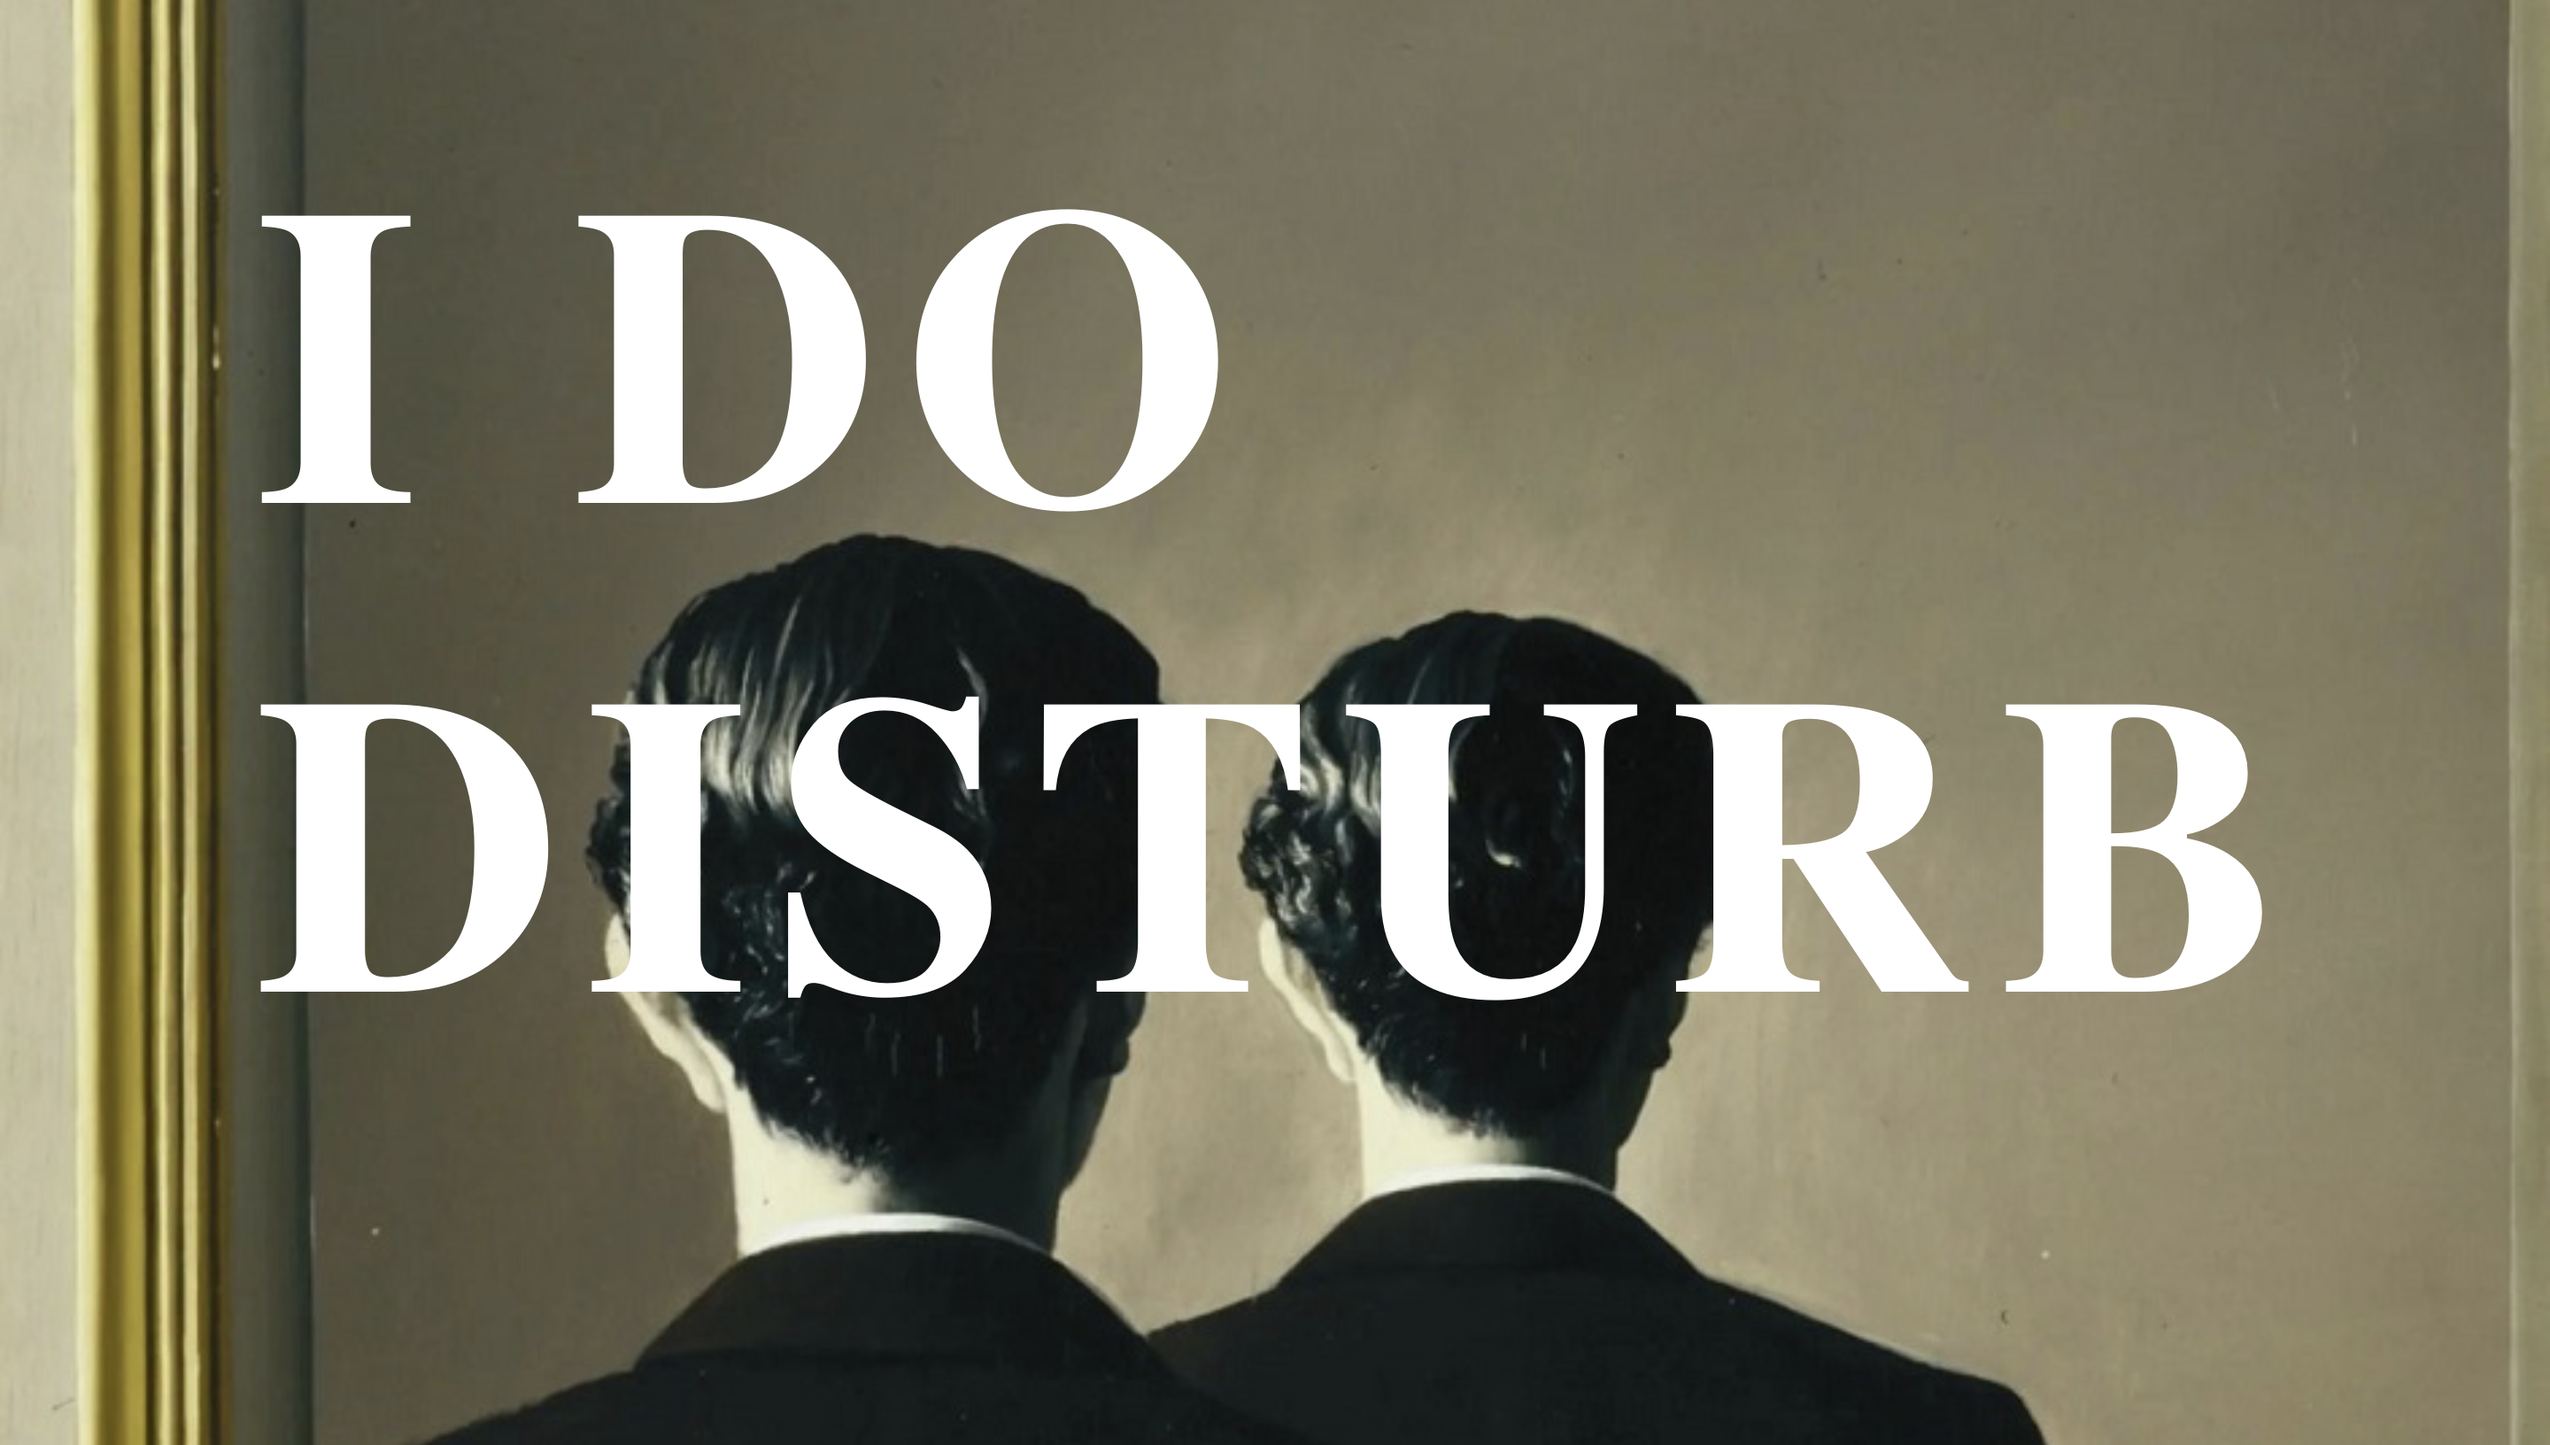
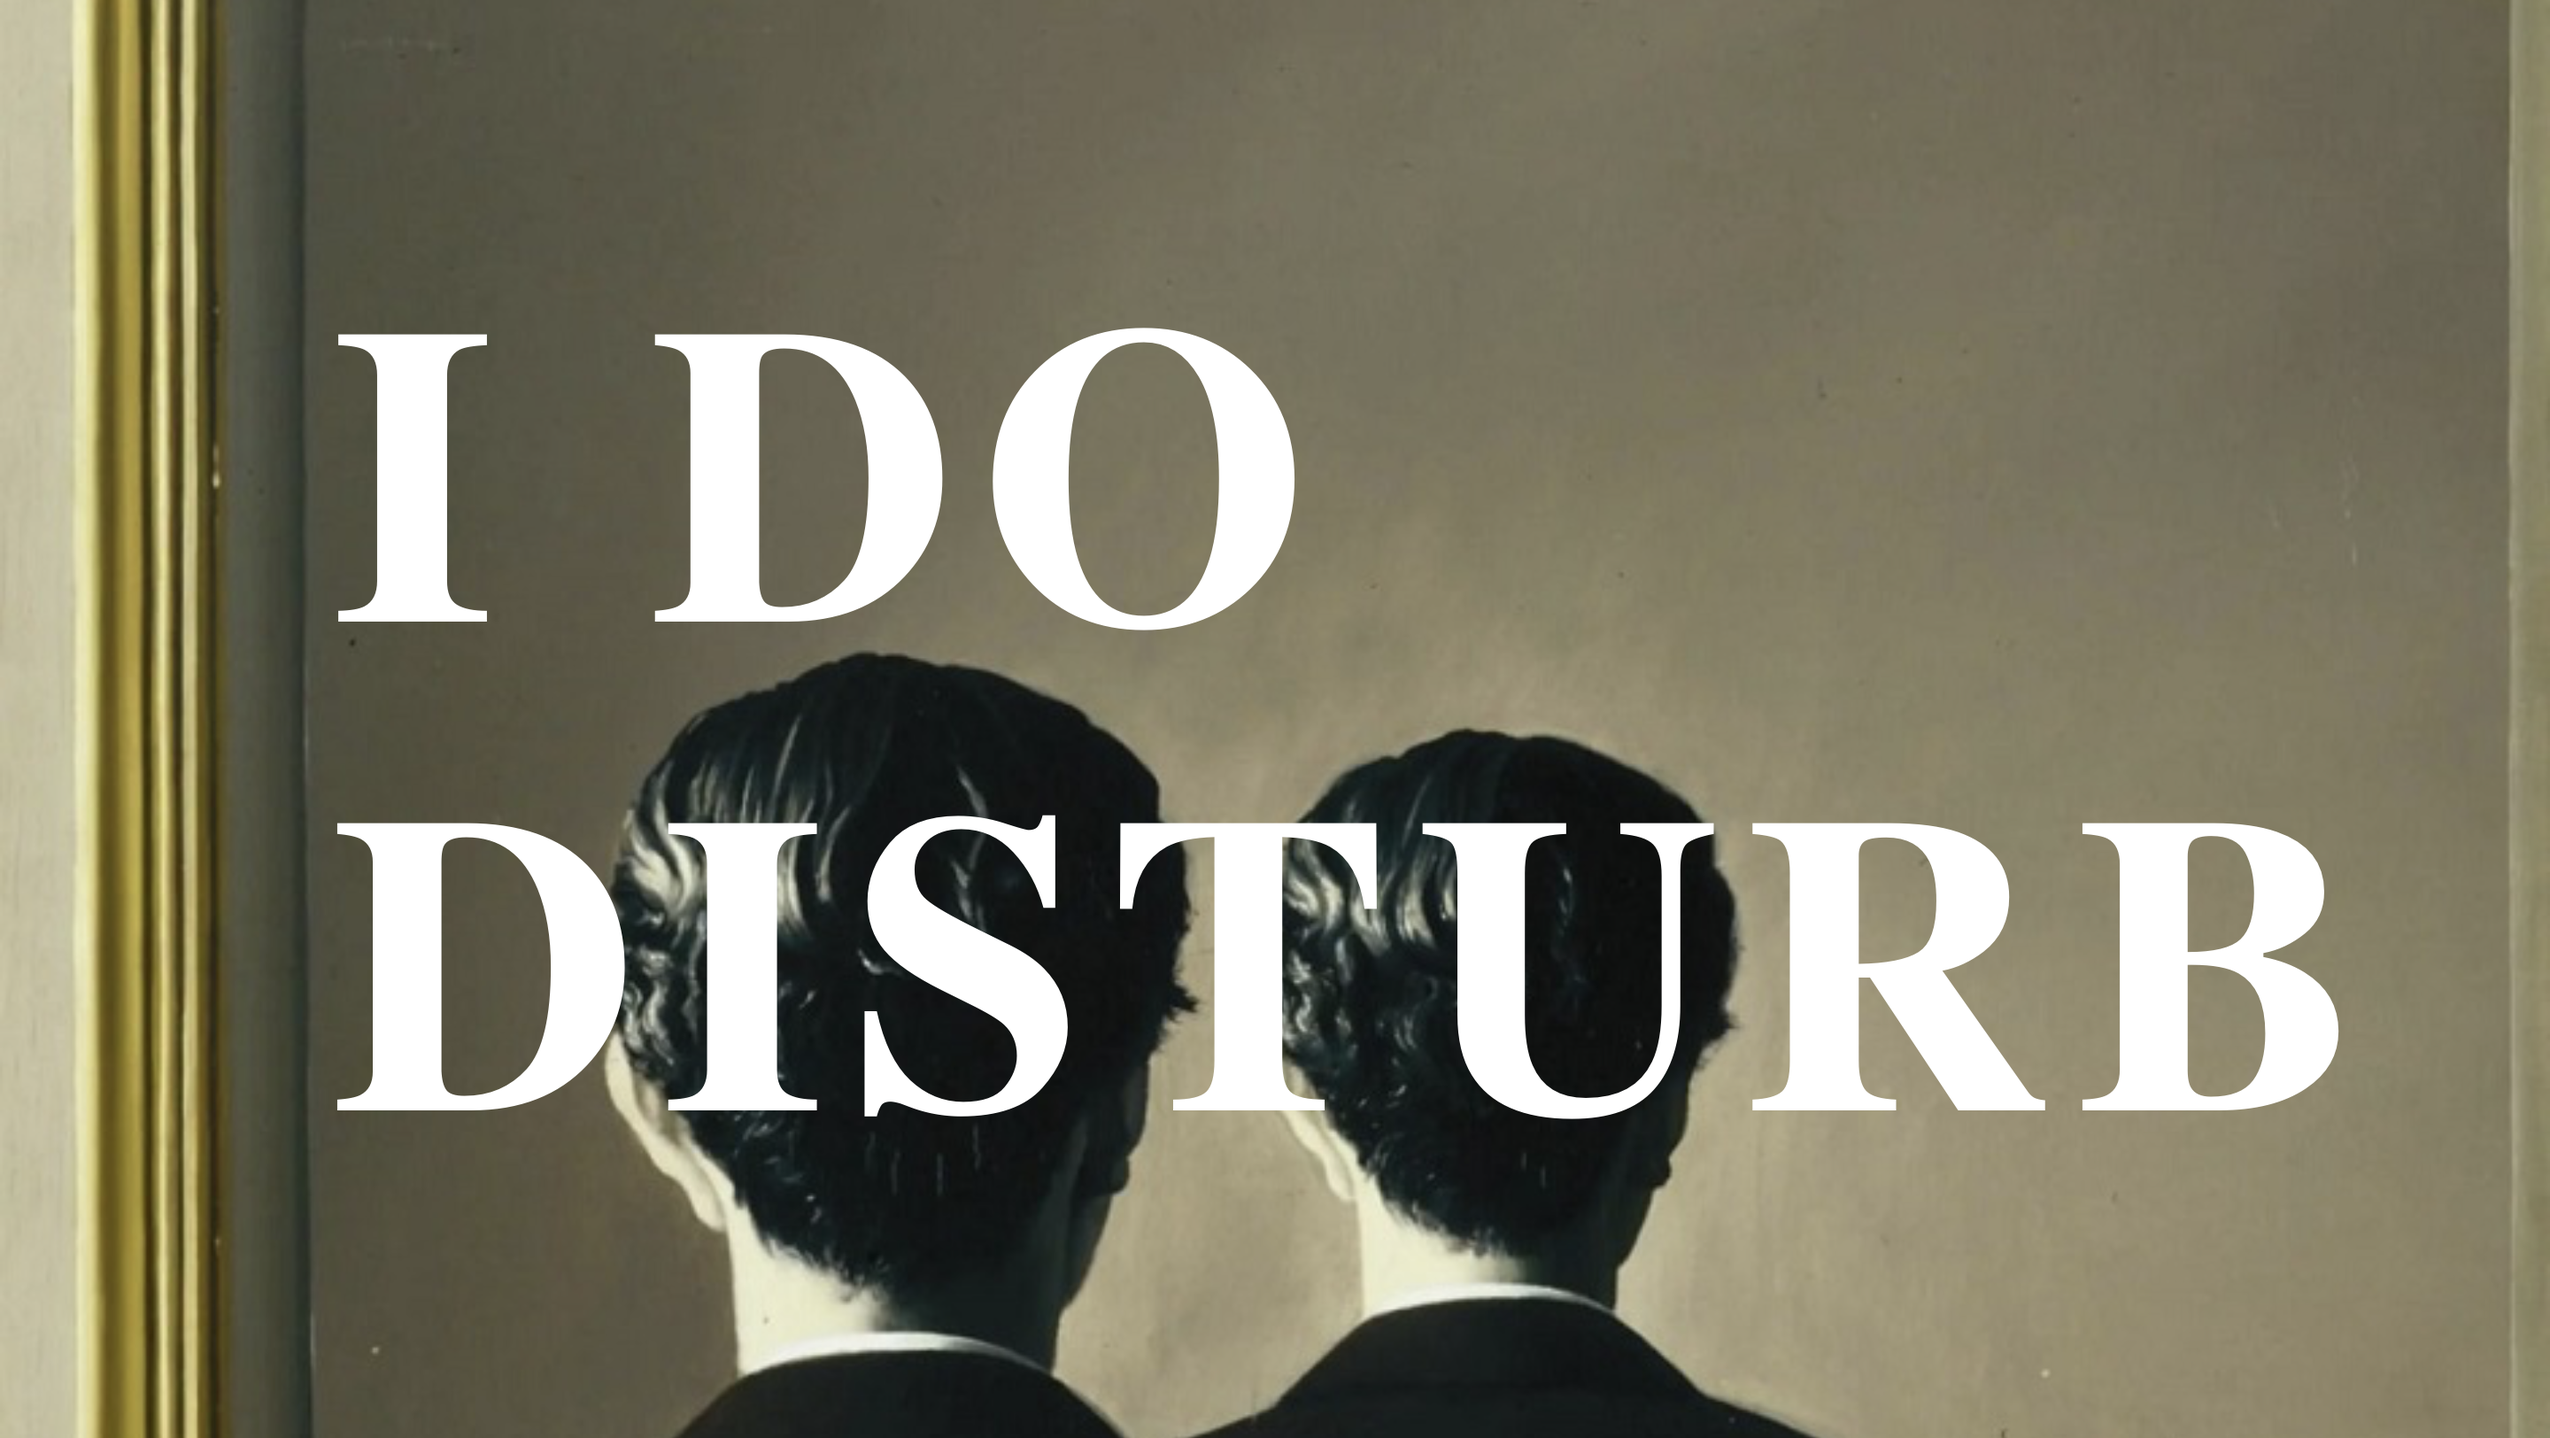
once again

Changed region(s): [[0.0938, 0.1232, 0.9375, 1.0], [0.0625, 0.0924, 0.1875, 0.431], [0.0625, 0.9236, 0.0938, 0.9544]]

diff --git a/Д0суг/7/style2.css b/Д0суг/7/style2.css
@@ -12,7 +12,7 @@ body {
 .white_container {
   color: white;
   margin-top: 15%;
-  margin-left: 10%;
+  margin-left: 13%;
   font-weight: bold;
   letter-spacing: 13px;
   width: 100%;
